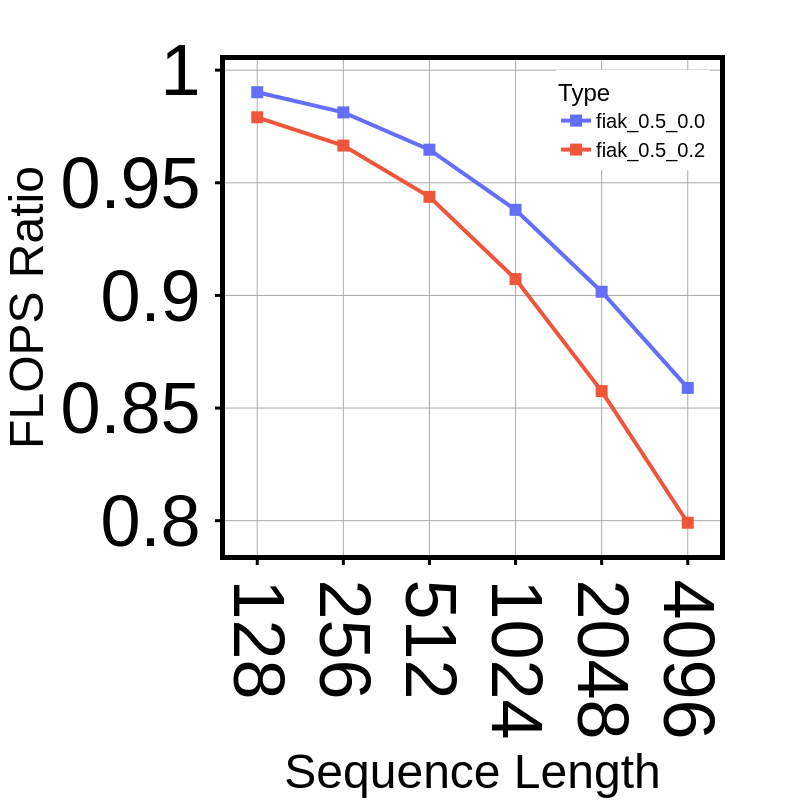
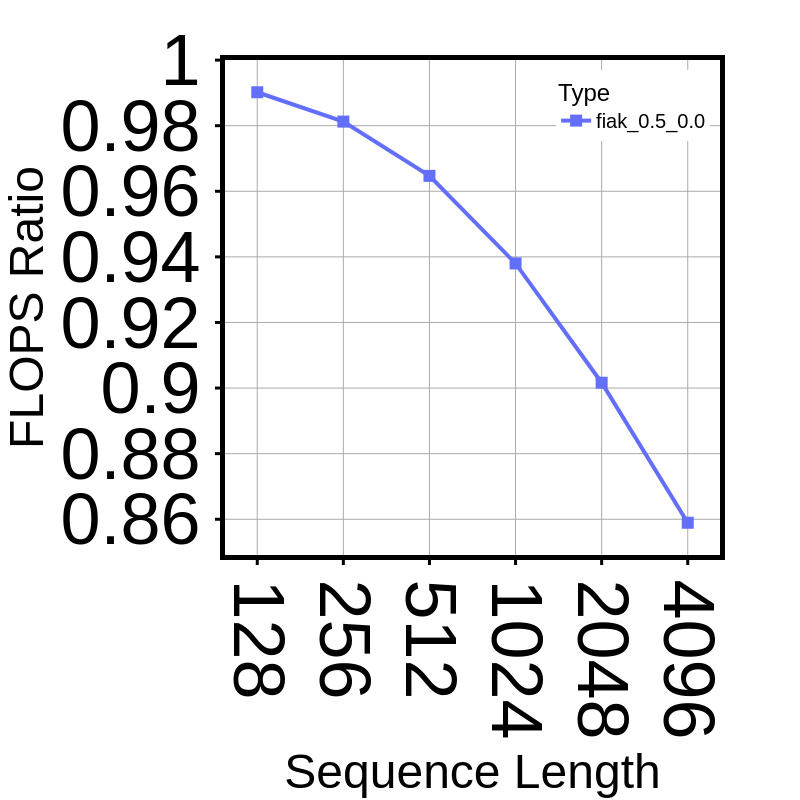
updated plots eff - remove mixed pruning

diff --git a/gmm/plot_eff.py b/gmm/plot_eff.py
@@ -255,7 +255,10 @@ df
 df_block
 
 # %%
+df = df[df['type_full'] == 'fiak_0.5_0.0'].copy(True)
+df_block = df_block[df_block['type_full'] == 'fiak_0.5_0.0'].copy(True)
 
+df_block
 
 # %% MODEL
 fig_flops = px.line(

diff --git a/gmm/plots/eff_lm/README.md b/gmm/plots/eff_lm/README.md
@@ -1,33 +1,43 @@
 # Plots and stuff
 
-## Plots deit eigen values
+## Plots LM Ratio
 
-> deit_eigen_model
+> lm_ratio_flops
 
 <p float="left" align="left">
 
-<img src="clean/deit_eigen_model.png" width="320" />
+<img src="clean/lm_ratio_flops.png" width="320" />
 
-<img src="ref/deit_eigen_model.png" width="320" />
+<img src="ref/lm_ratio_flops.png" width="320" />
 
 </p>
 
-> deit_eigen_layer_65
+> lm_ratio_mem
 
 <p float="left" align="left">
 
-<img src="clean/deit_eigen_layer_65.png" width="320" />
+<img src="clean/lm_ratio_mem.png" width="320" />
 
-<img src="ref/deit_eigen_layer_65.png" width="320" />
+<img src="ref/lm_ratio_mem.png" width="320" />
 
 </p>
 
-> deit_eigen_val
+> lm_ratio_flops_block
 
 <p float="left" align="left">
 
-<img src="clean/deit_eigen_val.png" width="320" />
+<img src="clean/lm_ratio_flops_block.png" width="320" />
 
-<img src="ref/deit_eigen_val.png" width="320" />
+<img src="ref/lm_ratio_flops_block.png" width="320" />
+
+</p>
+
+> lm_ratio_mem_block
+
+<p float="left" align="left">
+
+<img src="clean/lm_ratio_mem_block.png" width="320" />
+
+<img src="ref/lm_ratio_mem_block.png" width="320" />
 
 </p>
